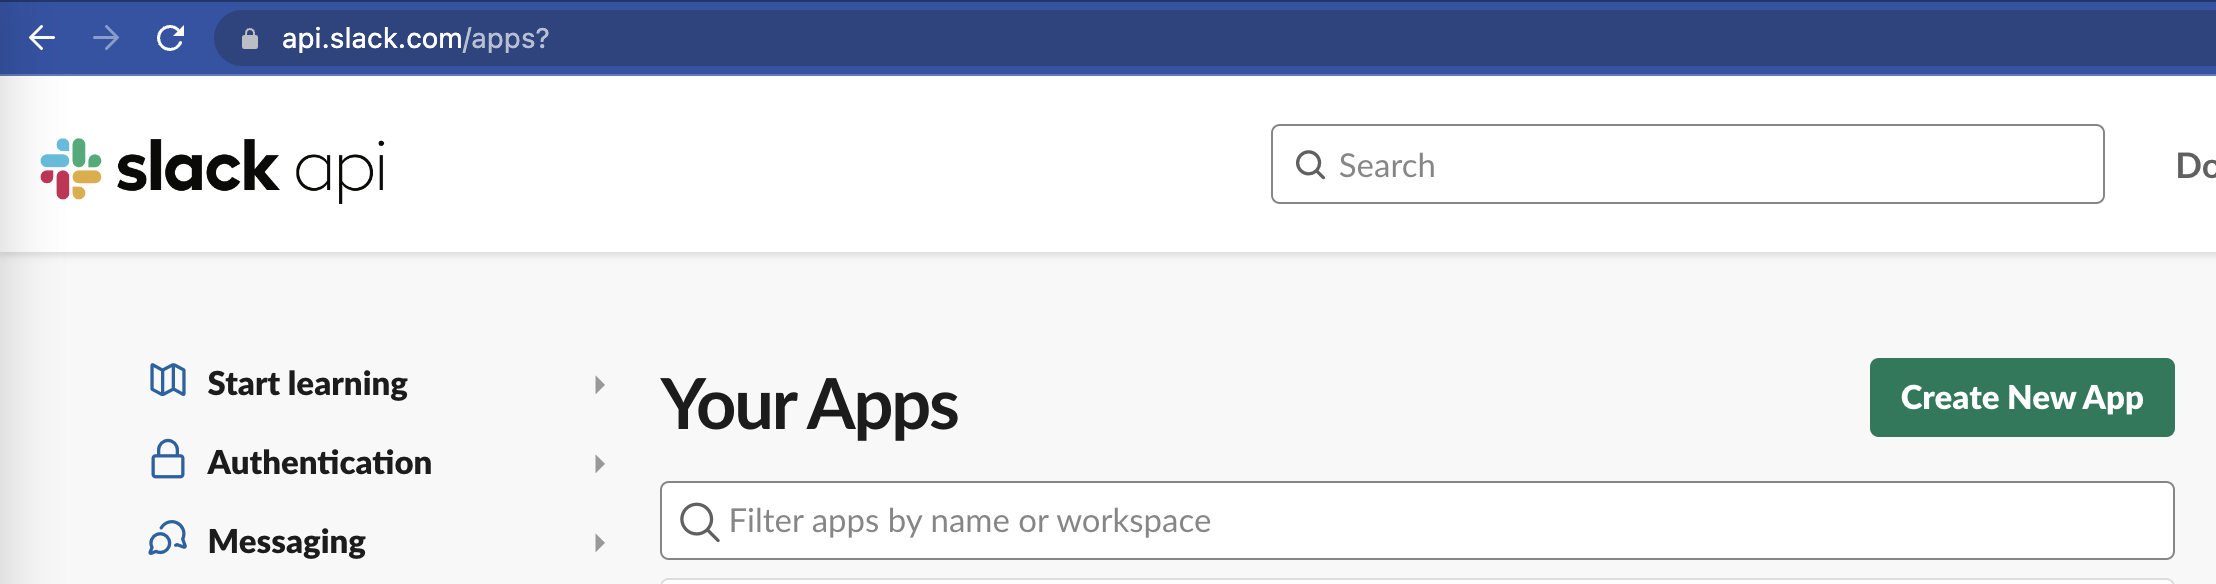
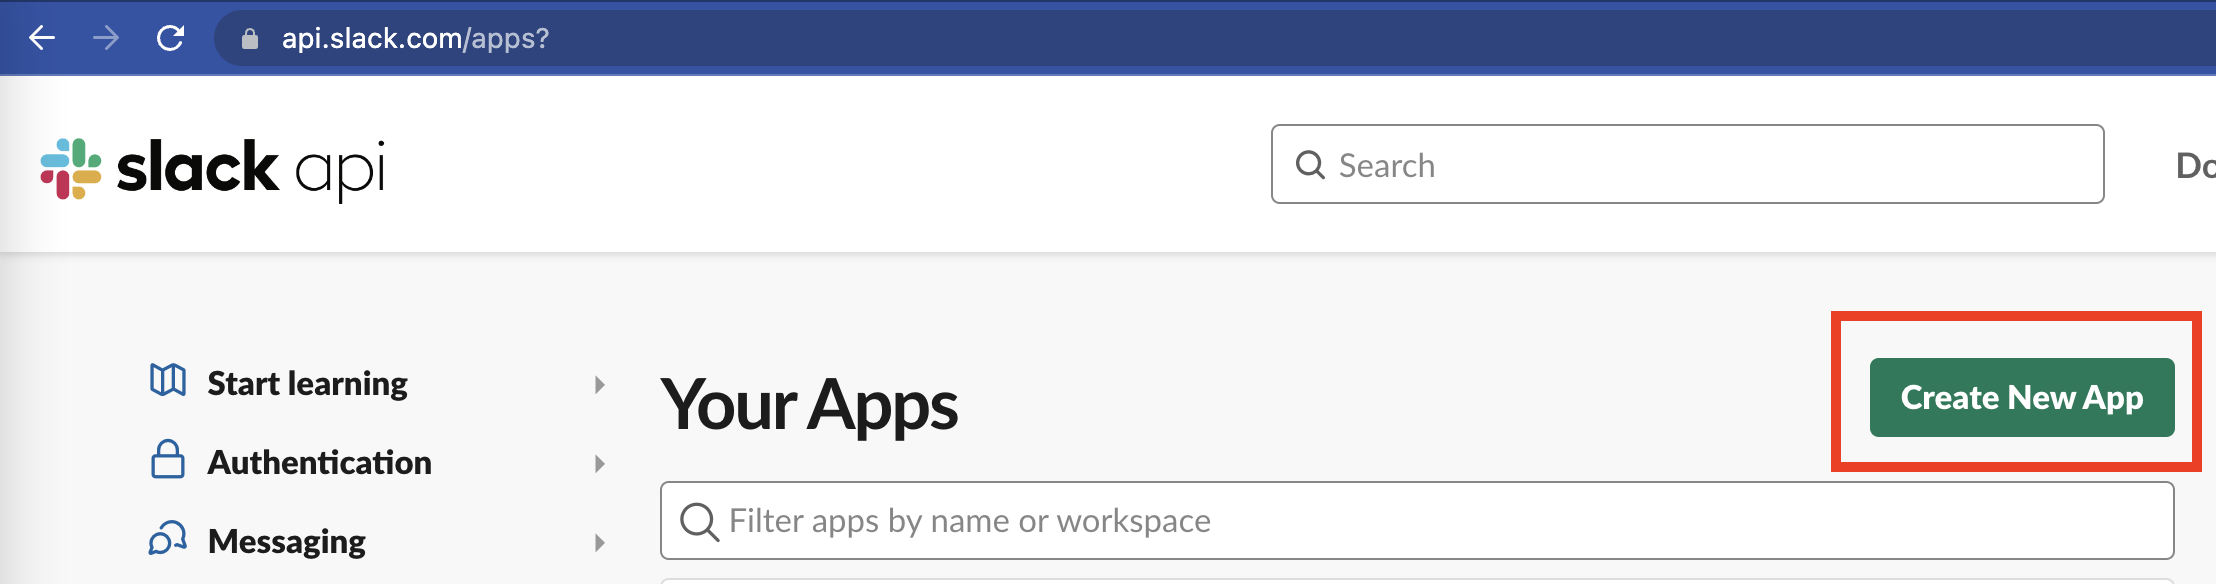
Slack page

Changed region(s): [[0.8096, 0.524, 0.9964, 0.8322]]

diff --git a/src/pages/en/integrations_slack.md b/src/pages/en/integrations_slack.md
@@ -12,22 +12,69 @@ function onItemCaptured(data) {
     vendor.slack(SLACK_AUTH_TOKEN, SLACK_CHANNEL_ID, "Server-side Error", JSON.stringify(data), "#ff0000");
 }
 ```
-**Kubeshark** uses Slack Incoming Webhook to send Slack alerts. You can read more about the procedure [here](https://api.slack.com/messaging/webhooks).
+**Kubeshark** uses **Slack Incoming Webhook**s to send Slack alerts. You can read more about the procedure [here](https://api.slack.com/messaging/webhooks).
+Slack provides an easy way to create a Slack App that enables maximum flexibility and customization.
 
-In general you need two properties:
-- SLACK_AUTH_TOKEN
-- SLACK_CHANNEL_ID
+There are two ways to post messages to Slack:
+1. With an incoming Webhook URL
+For example:
+```bash
+vendor.webhook("POST", SLACK_WEBHOOK_URL, JSON.stringify({text: "This is an Alert!"}));
+```
+2. Using an auth token and a channel ID
+For example:
+```bash
+vendor.slack(SLACK_AUTH_TOKEN, SLACK_CHANNEL_ID, "Server-side Error", JSON.stringify(data), "#ff0000");
+```
+You may already have the required properties and know how to use them. If not, see below for an explanation how to create a simple Slack App and retrieve these properties.
 
-You may already have these properties and know how to use them. If not, see below for an explanation how to retrieve these properties.
+## Creating the Slack App
+There are a couple of ways to create a Slack Apps. It shouldn't take more than 5 minutes.
 
-## Getting Slack Auth Token - DRAFT
-Start [here](https://api.slack.com/apps) by creating a Slack app (Bot).
+Start [here](https://api.slack.com/apps) and press the **Create New App** button to create a Slack app (Bot).
+
 ![Create Slack App](/slack-create-app.png)
-Name your app and choose your workspace.
-![Name your Slack App](/slack-name-app.png)
-Activate incoming webhooks by pressing the toggle button, in the **incoming-webhooks** section.
-![Activate Incoming Webhooks](/slack-incoming-webhooks.png)
-In the same section, add a webhook.
-![Slack add a webhook](/slack-add-webhook.png)
 
-## Retrieving Channel ID
+To make it easy we provided short manifest that is sufficient for **Kubeshark** to send messages to a Slack channel.
+
+Choose to create an App from a Manifest.
+
+![From a Manifest](/slack-manifest.png)
+
+Select your workspace
+
+![Select your workspace](/slack-workspace.png)
+
+Copy the manifest from below and paste to the Slack Manifest window. Be sure to choose the YAML tab.
+
+```bash
+display_information:
+  name: Kubeshark
+features:
+  bot_user:
+    display_name: Kubeshark
+oauth_config:
+  scopes:
+    bot:
+      - incoming-webhook
+      - chat:write
+```
+
+Install the App to your workspace.
+
+![Install the App to your workspace](/slack-install-app.png)
+
+The easiest way to get going is to hop over to the **Incoming Webhooks** section and retrieve the **Incoming Webhook URL**.  
+
+![Webhook URL](/slack-webhook.png)
+
+If you choose to use the second method that require the Slack Auth Token and the Channel ID, hop over to the **OAuth & Permissions** section to retrieve your Slack Auth Token.
+
+![Retrieve your Slack Auth Token](/slack-auth-token.png)
+
+To retrieve the Channel ID, go to the channel in your Slack application. Use the down arrow near the channel name to find and copy the Channel ID.
+![Channel Details](/slack-channel-details.png)
+![Channel ID](/slack-channel-ID.png)
+
+The last operation is to invite **Kubeshark** to the channel by writing `@Kubeshark` in the channel prompt
+![Invite to Channel ID](/slack-invite-channel.png)
